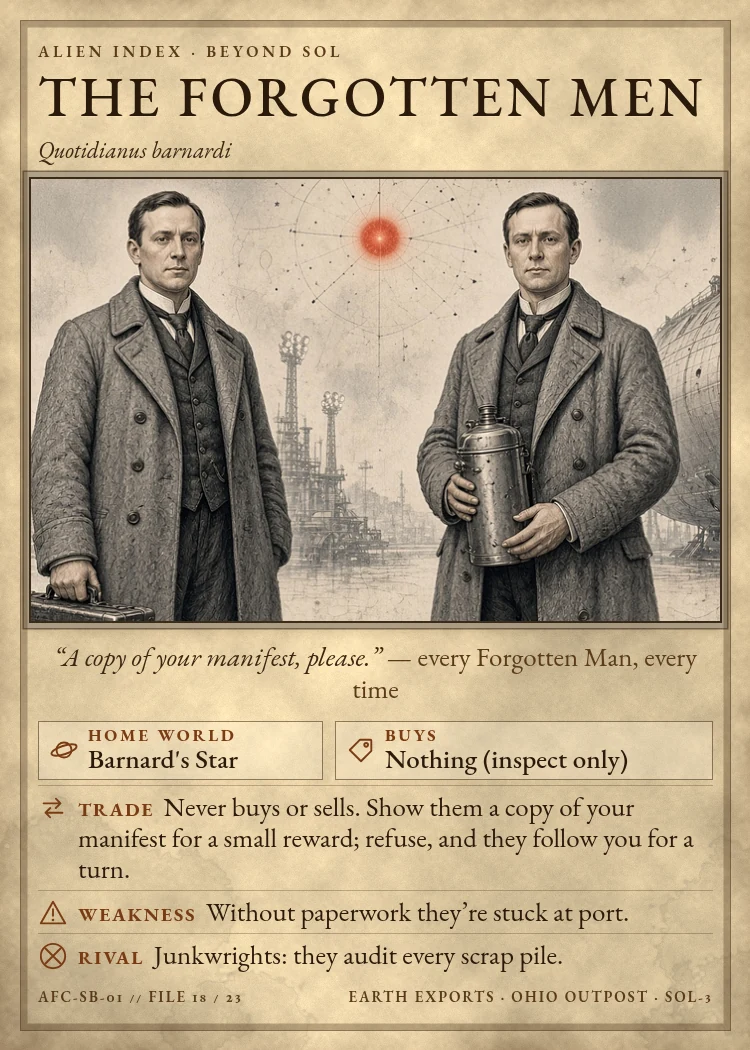
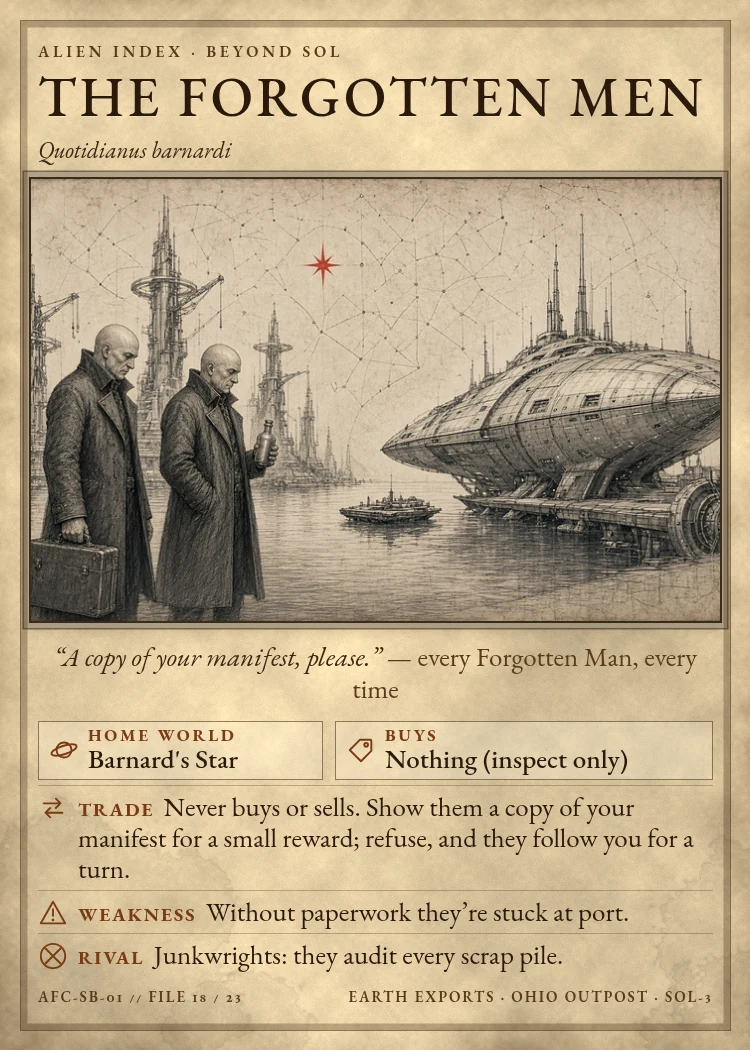
Live 2026-11-06: Forgotten Men light card from print final, Bisola dark card cheek-only, sector-01 Earth cards row; cache-bust 20261106b

Changed region(s): [[0.0307, 0.1524, 0.9813, 0.6095], [0.4907, 0.3048, 0.5213, 0.3352], [0.46, 0.3352, 0.4907, 0.3657]]

diff --git a/sector-01.html b/sector-01.html
@@ -10,11 +10,12 @@
   <meta property="og:title" content="Cards &amp; Games · Earth Exports">
   <meta property="og:description" content="Alien trading card packs and MANIFEST, a quick tabletop trading game, from a small Ohio maker shop.">
   <meta property="og:url" content="https://earthexportsshop.com/sector-01.html">
-  <meta property="og:image" content="https://earthexportsshop.com/images/products/all-cards.webp?v=20261106">
+  <meta property="og:image" content="https://earthexportsshop.com/images/products/all-cards.webp?v=20261106b">
   <meta name="twitter:card" content="summary_large_image">
   <link rel="canonical" href="https://earthexportsshop.com/sector-01.html">
   <link rel="icon" href="assets/logos/ee-logo-sol3-mark.svg" type="image/svg+xml">
   <link rel="stylesheet" href="css/styles.css?v=20261106">
+  <style>.earth-cards{margin:2rem 0}.earth-cards .ph.earth-row{aspect-ratio:3.9/1;height:auto;margin:1rem 0 0;border-radius:6px;overflow:hidden}</style>
 </head>
 <body class="mode-public">
   <div class="starfield" aria-hidden="true"></div>
@@ -102,7 +103,7 @@
           </div>
         </article>
         <article class="product-card">
-          <figure class="ph ph-fit" data-cardset="beyond"><img src="images/products/beyond-sol.webp?v=20261106" width="1600" height="1200" loading="lazy" decoding="async" alt="The 12 Beyond Sol species cards."></figure>
+          <figure class="ph ph-fit" data-cardset="beyond"><img src="images/products/beyond-sol.webp?v=20261106b" width="1600" height="1200" loading="lazy" decoding="async" alt="The 12 Beyond Sol species cards."></figure>
           <div class="pc-body">
             <p class="pc-lore">Expansion</p>
             <h3>Earth Exports: Beyond Sol</h3>
@@ -122,6 +123,11 @@
           </div>
         </article>
       </div>
+      <section class="earth-cards" aria-labelledby="earth-h">
+        <h2 id="earth-h">Earth cards</h2>
+        <p class="packs-lead">The home team: the people and places on Earth’s side of every trade.</p>
+        <figure class="ph ph-fit earth-row" data-cardset="earth"></figure>
+      </section>
       <section class="packs" aria-labelledby="packs-h">
         <h2 id="packs-h">Card packs</h2>
         <p class="packs-lead">Pick a pack to see what’s inside. Plans only for now: no prices or release dates yet.</p>
@@ -185,6 +191,6 @@
   <script src="js/forms-config.js?v=20260927-tabs"></script>
   <script src="js/contact-form.js?v=20260927-tabs" defer></script>
   <script src="js/vex-chat.js?v=20260927-tabs" defer></script>
-  <script src="js/card-zoom.js?v=20261106" defer></script>
+  <script src="js/card-zoom.js?v=20261106b" defer></script>
 </body>
 </html>

diff --git a/archives.html b/archives.html
@@ -406,8 +406,8 @@
         </article>
         <article class="ix-card" id="plain-coat">
           <div class="ix-art">
-            <button type="button" class="fg-open" data-name="The Forgotten Men" data-guide="images/cards/the-forgotten-men-ee.webp?v=20261106" data-poster="images/cards/the-forgotten-men-cv.webp?v=20261106">
-              <img class="fg-guide" src="images/cards/the-forgotten-men-ee.webp?v=20261106" width="750" height="1050" loading="lazy" decoding="async" alt="The Forgotten Men trading card, Earth file (light)">
+            <button type="button" class="fg-open" data-name="The Forgotten Men" data-guide="images/cards/the-forgotten-men-ee.webp?v=20261106b" data-poster="images/cards/the-forgotten-men-cv.webp?v=20261106">
+              <img class="fg-guide" src="images/cards/the-forgotten-men-ee.webp?v=20261106b" width="750" height="1050" loading="lazy" decoding="async" alt="The Forgotten Men trading card, Earth file (light)">
               <img class="fg-poster" src="images/cards/the-forgotten-men-cv.webp?v=20261106" width="750" height="1050" loading="lazy" decoding="async" alt="The Forgotten Men trading card, Smuggler file (dark)">
               <span class="fg-zoom">View larger</span>
             </button>
@@ -439,9 +439,9 @@
         </article>
         <article class="ix-card" id="split-kin">
           <div class="ix-art">
-            <button type="button" class="fg-open" data-name="Bisola" data-guide="images/cards/bisola-ee.webp?v=20261106" data-poster="images/cards/bisola-cv.webp?v=20261106">
+            <button type="button" class="fg-open" data-name="Bisola" data-guide="images/cards/bisola-ee.webp?v=20261106" data-poster="images/cards/bisola-cv.webp?v=20261106b">
               <img class="fg-guide" src="images/cards/bisola-ee.webp?v=20261106" width="750" height="1050" loading="lazy" decoding="async" alt="Bisola trading card, Earth file (light)">
-              <img class="fg-poster" src="images/cards/bisola-cv.webp?v=20261106" width="750" height="1050" loading="lazy" decoding="async" alt="Bisola trading card, Smuggler file (dark)">
+              <img class="fg-poster" src="images/cards/bisola-cv.webp?v=20261106b" width="750" height="1050" loading="lazy" decoding="async" alt="Bisola trading card, Smuggler file (dark)">
               <span class="fg-zoom">View larger</span>
             </button>
           </div>

diff --git a/index.html b/index.html
@@ -119,7 +119,7 @@
         <p class="shelf-note">Three kinds of things, all designed and finished in Ohio. Pick one to see the products.</p>
         <div class="cat-grid">
           <a class="cat-tile" href="sector-01.html">
-            <figure class="ph ph-fit" data-cardset="all"><img src="images/products/all-cards.webp?v=20261106" width="1600" height="1200" loading="lazy" decoding="async" alt="All 23 Earth Exports species cards laid out in a grid."></figure>
+            <figure class="ph ph-fit" data-cardset="all"><img src="images/products/all-cards.webp?v=20261106b" width="1600" height="1200" loading="lazy" decoding="async" alt="All 23 Earth Exports species cards laid out in a grid."></figure>
             <span class="cat-body"><span class="cat-name">Cards &amp; Games</span><span class="cat-line">The Merchant Starter, the Beyond Sol expansion, boosters and MANIFEST.</span><span class="cat-go" aria-hidden="true">Shop →</span></span>
           </a>
           <a class="cat-tile" href="sector-02.html">
@@ -233,6 +233,6 @@
   <script src="js/forms-config.js?v=20260927-tabs"></script>
   <script src="js/contact-form.js?v=20260927-tabs" defer></script>
   <script src="js/vex-chat.js?v=20260927-tabs" defer></script>
-  <script src="js/card-zoom.js?v=20261106" defer></script>
+  <script src="js/card-zoom.js?v=20261106b" defer></script>
 </body>
 </html>

diff --git a/js/card-zoom.js b/js/card-zoom.js
@@ -1,6 +1,6 @@
 /* Card grids with a hover (desktop) / tap (phone) enlarged view of one card. */
 (function () {
-  var V = "?v=20261106";
+  var V = "?v=20261106b";
   var SOL = ["Ventkin","Icecutters","Hazedrift","Veilborn","Red Watchers","Slagbacks","Wellkeepers","Farfallen","Lodestars","Edgewardens","Starwake Comet"];
   var BEYOND = ["Greylight","Bronzeridge","Ceti Highborn","Darkreed","The Kindled","Amberhive","Greenlings","The Forgotten Men","Junkwrights","Bisola","The Hushed","Mimics"];
   var DARK = ["Ventkin","Hazedrift","Red Watchers","Edgewardens"];
@@ -10,6 +10,7 @@
   var SETS = {
     starter: { cols: 6, cards: SOL.map(function (n) { return c(n); }).concat(DARK.map(function (n) { return c(n, true); }), [BACK_CV]) },
     beyond: { cols: 4, cards: BEYOND.map(function (n) { return c(n); }) },
+    earth: { cols: 5, cards: [["astronaut","Astronaut"],["mission-control","Mission Control"],["trade-envoy","Trade Envoy"],["care-package","Care Package"],["moon-base","Moon Base"]].map(function (e) { return { src: "images/cards/earth/earth-" + e[0] + ".webp" + V, alt: e[1] + " Earth card" }; }) },
     all: { cols: 6, cards: SOL.concat(BEYOND).map(function (n) { return c(n); }).concat([BACK_EE]) }
   };
   var grids = [];
